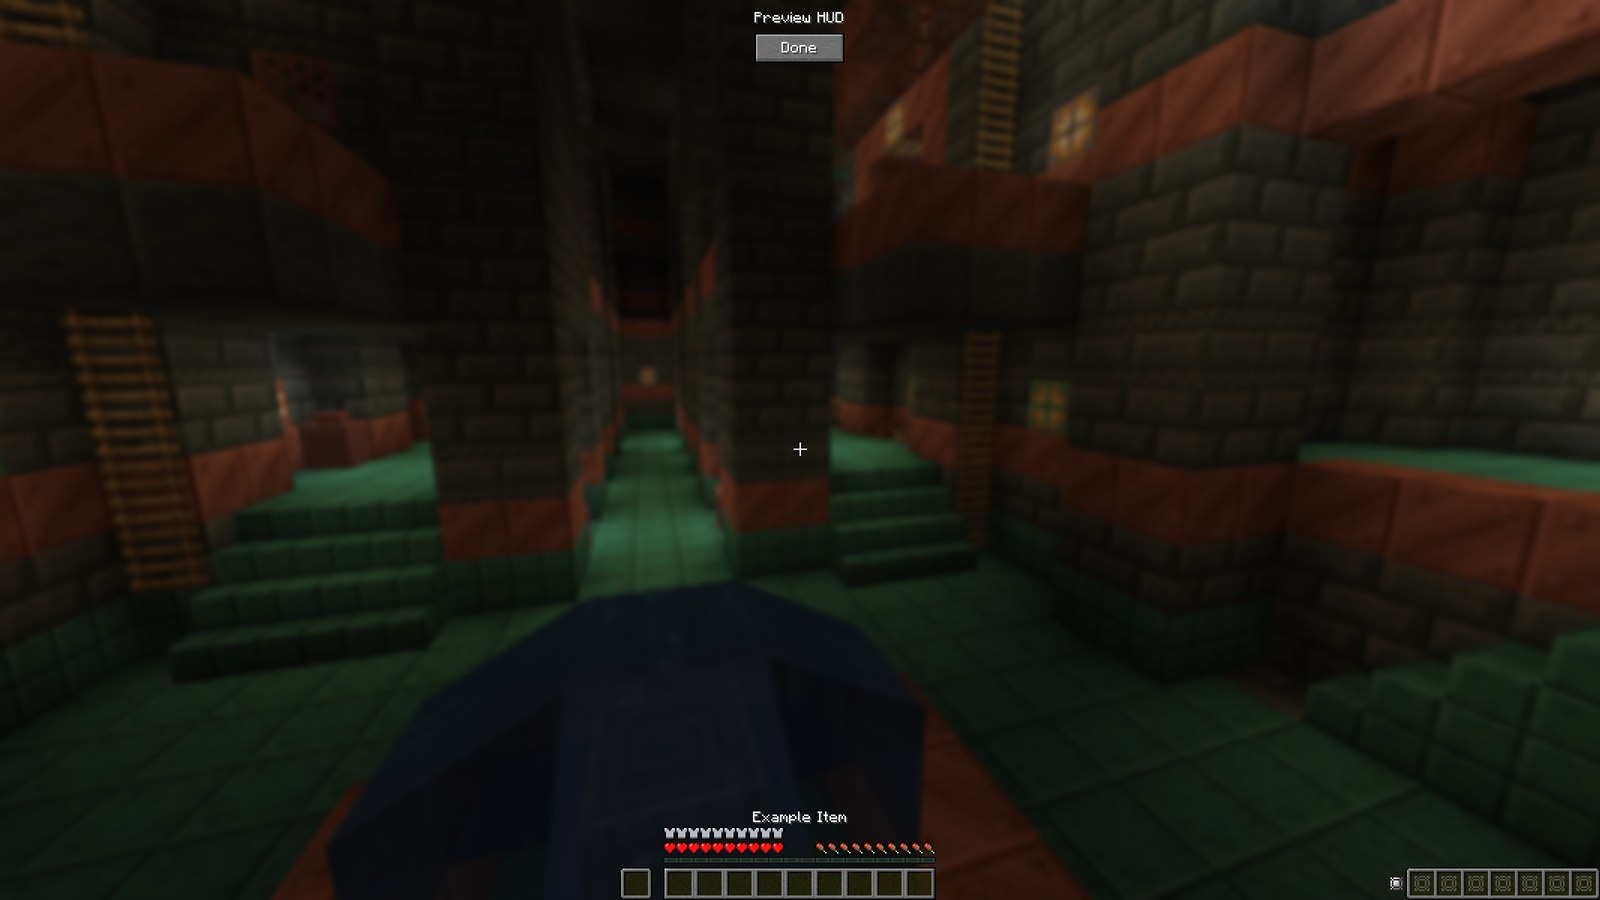
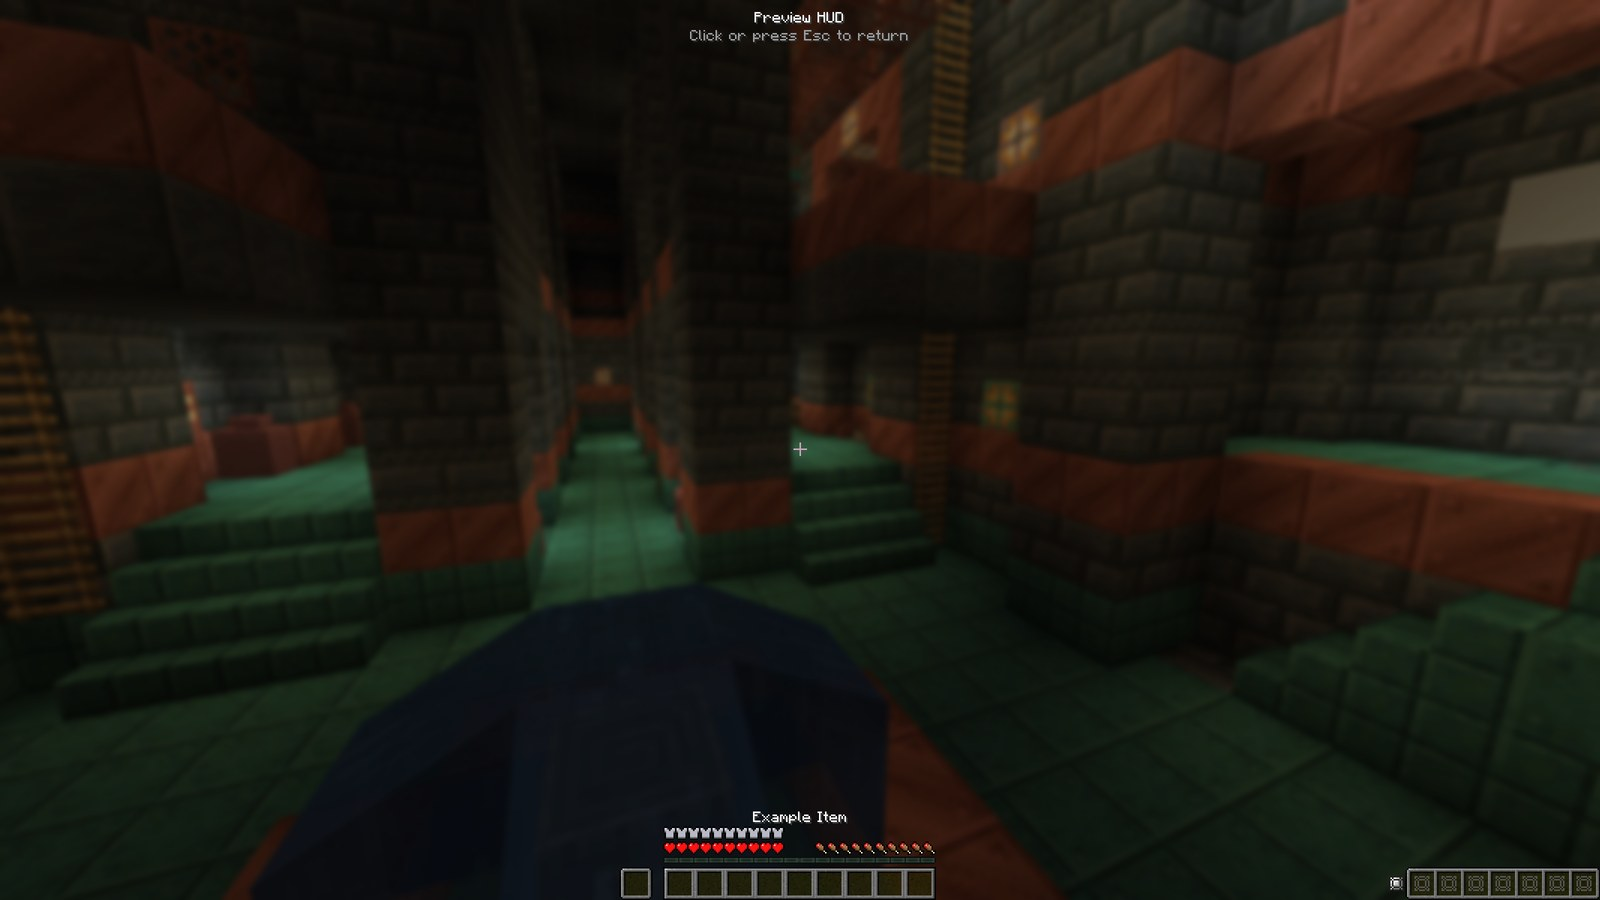
Preview HUD: no lone Done button; closes with a click anywhere or Escape
The preview screen held nothing but one Done button, which looked like a leftover wherever it sat. It now
has no widgets: a click anywhere or Escape returns to the config, and a title with that hint is drawn at
the top (in the middle when the HUD element is at the top centre). The test scene logs every screen it
shows with its widgets; 84/84 on NeoForge 21.1.262 (English and Russian), 21.1.197 and with the
compatibility mods.

diff --git a/src/main/java/com/oblivioussp/spartanhudbaubles/port/DevScene.java b/src/main/java/com/oblivioussp/spartanhudbaubles/port/DevScene.java
@@ -266,7 +266,7 @@ public final class DevScene
 			if(mc.screen instanceof GuiPreviewHUD preview)
 			{
 				check("preview: 7 dummy slots, bottom right", preview.getHud().getWidth() == 130 && preview.getHud().getLastX() == mc.getWindow().getGuiScaledWidth() - 130, preview.getHud().getLastX());
-				check("preview: Done button at the top, under the title", preview.getDoneButton().getY() == 22, preview.getDoneButton().getY());
+				check("preview: no lone button, title and hint at the top", preview.children().isEmpty() && preview.getTextY() == 8, preview.children().size() + ", text at " + preview.getTextY());
 			}
 			mc.screen.keyPressed(GLFW.GLFW_KEY_ESCAPE, 0, 0);
 		});
@@ -282,12 +282,16 @@ public final class DevScene
 		at(t += 3, mc -> Config.ALIGNMENT.set(Alignment.TOP_CENTER));
 		at(t += 3, mc -> {
 			if(mc.screen instanceof GuiPreviewHUD preview)
-				check("preview: Done button moves out of a top centre HUD", preview.getDoneButton().getY() == preview.height / 2 - 50, preview.getDoneButton().getY());
+				check("preview: title and hint move out of a top centre HUD", preview.getTextY() == preview.height / 2 - 50, preview.getTextY());
 			shot(mc, "preview_top_center");
 			Config.ALIGNMENT.set(Alignment.BOTTOM_RIGHT);
 		});
-		at(t += 3, mc -> mc.screen.keyPressed(GLFW.GLFW_KEY_ESCAPE, 0, 0));
+		at(t += 3, mc -> {
+			// A click anywhere closes the preview
+			mc.screen.mouseClicked(100, 100, 0);
+		});
 		at(t += 5, mc -> {
+			check("a click anywhere closes the preview", mc.screen instanceof GuiConfigSHB, mc.screen);
 			mc.screen.onClose();
 			watchScreens = 12;
 		});
@@ -451,6 +455,25 @@ public final class DevScene
 			check("menu step " + menuTick + " ran", false, e);
 			Log.error("[scene] menu step failed", e);
 		}
+	}
+
+	private static String lastScreen = "";
+	private static int screenShots;
+
+	/** Logs and saves every new look of a screen (its class and widgets), to see every screen the player sees */
+	@SubscribeEvent
+	public static void onScreenRendered(net.neoforged.neoforge.client.event.ScreenEvent.Render.Post event)
+	{
+		if(!ENABLED)
+			return;
+		List<AbstractWidget> found = new ArrayList<>();
+		collectWidgets(event.getScreen().children(), found);
+		String signature = event.getScreen().getClass().getSimpleName() + " " + found.stream().filter(w -> w.visible).map(w -> w.getMessage().getString() + "@" + w.getX() + "," + w.getY()).toList();
+		if(signature.equals(lastScreen))
+			return;
+		lastScreen = signature;
+		Log.info("[scene] SCREEN " + screenShots + " " + signature);
+		shot(Minecraft.getInstance(), "screen_" + screenShots++);
 	}
 
 	@SubscribeEvent
@@ -779,7 +802,7 @@ public final class DevScene
 	private static void checkTranslations()
 	{
 		List<String> keys = new ArrayList<>();
-		for(String key : List.of("preview_hud", "hover_text_example", "disable_hud", "skin_type", "alignment", "offset_x", "offset_y", "rotate_vertical",
+		for(String key : List.of("preview_hud", "preview_hud.hint", "hover_text_example", "disable_hud", "skin_type", "alignment", "offset_x", "offset_y", "rotate_vertical",
 				"show_baubles_icon", "show_empty_slots", "max_slots_per_line", "tooltip_background_colour", "tooltip_frame_top_colour",
 				"tooltip_frame_bottom_colour", "minimal_top_colour", "minimal_bottom_colour", "red", "green", "blue", "alpha", "title"))
 			keys.add(ModSpartanHUDBaubles.ID + ".configuration." + key);

diff --git a/src/main/java/com/oblivioussp/spartanhudbaubles/client/gui/GuiPreviewHUD.java b/src/main/java/com/oblivioussp/spartanhudbaubles/client/gui/GuiPreviewHUD.java
@@ -6,9 +6,7 @@ import com.mojang.blaze3d.systems.RenderSystem;
 import com.oblivioussp.spartanhudbaubles.ModSpartanHUDBaubles;
 
 import net.minecraft.client.gui.GuiGraphics;
-import net.minecraft.client.gui.components.Button;
 import net.minecraft.client.gui.screens.Screen;
-import net.minecraft.network.chat.CommonComponents;
 import net.minecraft.network.chat.Component;
 import net.minecraft.resources.ResourceLocation;
 import net.minecraft.world.entity.HumanoidArm;
@@ -33,7 +31,9 @@ public class GuiPreviewHUD extends Screen
 
 	private final Screen parentScreen;
 	private HudElementBaubles hud;
-	private Button doneButton;
+	private final Component hint = Component.translatable(ModSpartanHUDBaubles.ID + ".configuration.preview_hud.hint");
+	// Where the title and the hint are drawn (top, or the middle when the HUD element is at the top centre)
+	private int textY = 8;
 
 	public GuiPreviewHUD(Screen parent)
 	{
@@ -42,14 +42,15 @@ public class GuiPreviewHUD extends Screen
 		hud = new HudElementBaubles(true);
 	}
 
+	/**
+	 * Port: the original had a lone Done button above the crosshair; a page with nothing but one button looked like a
+	 * leftover, so the preview now closes with a click anywhere (or Escape) and says so at the top
+	 */
 	@Override
-	protected void init()
+	public boolean mouseClicked(double mouseX, double mouseY, int button)
 	{
-		// Port: at the top under the title (the original's button floated above the crosshair, which looks like a
-		// leftover in 1.21); back at the original spot when the HUD element itself is at the top centre
-		Component doneTitle = CommonComponents.GUI_DONE;
-		int doneWidth = Math.max(font.width(doneTitle) + 20, 60);
-		doneButton = addRenderableWidget(Button.builder(doneTitle, button -> onClose()).bounds(width / 2 - doneWidth / 2, 22, doneWidth, 20).build());
+		onClose();
+		return true;
 	}
 
 	@Override
@@ -69,9 +70,11 @@ public class GuiPreviewHUD extends Screen
 	@Override
 	public void render(GuiGraphics graphics, int mouseX, int mouseY, float partialTicks)
 	{
-		doneButton.setY(overlapsHud(width / 2 - doneButton.getWidth() / 2, 6, doneButton.getWidth(), 36) ? height / 2 - 50 : 22);
+		int textWidth = Math.max(font.width(title), font.width(hint)) + 8;
+		textY = overlapsHud(width / 2 - textWidth / 2, 4, textWidth, 26) ? height / 2 - 50 : 8;
 		super.render(graphics, mouseX, mouseY, partialTicks);
-		graphics.drawCenteredString(font, title, width / 2, doneButton.getY() - 14, 0xFFFFFF);
+		graphics.drawCenteredString(font, title, width / 2, textY, 0xFFFFFF);
+		graphics.drawCenteredString(font, hint, width / 2, textY + 12, 0xA0A0A0);
 
 		HumanoidArm offhandSide = minecraft.options.mainHand().get().getOpposite();
 
@@ -138,9 +141,9 @@ public class GuiPreviewHUD extends Screen
 		return hudX < x + w && x < hudX + hud.getWidth() && hudY < y + h && y < hudY + hud.getHeight();
 	}
 	
-	public Button getDoneButton()
+	public int getTextY()
 	{
-		return doneButton;
+		return textY;
 	}
 	
 	public HudElementBaubles getHud()

diff --git a/PORTLOG.md b/PORTLOG.md
@@ -26,7 +26,7 @@ three are in the jar (`LICENSE_spartanhudbaubles`, `licenses/spartanhudbaubles/`
   (`config.spartanhudbaubles:client.alignment` → `spartanhudbaubles.configuration.alignment`), and `tools/lang/*.json`
   on top (the port's new strings and the other five languages). Never edit `src/main/resources/assets` by hand.
 - **Tests** (long, run in the background):
-  - `tools/scenetest.sh` — client scene `port/DevScene` (83 checks, screenshots; `-Pscene_lang=ru_ru`, `-Pwith_compat`, `-Pneo_version=21.1.197 -Pno_jei`);
+  - `tools/scenetest.sh` — client scene `port/DevScene` (84 checks, screenshots; `-Pscene_lang=ru_ru`, `-Pwith_compat`, `-Pneo_version=21.1.197 -Pno_jei`);
   - `tools/scenetest.sh -Pscene=stress` — `port/StressScene` (broken config file, 74 Curios, frame rate, churn, every
     GUI scale, small window, extreme values, rejoining);
   - `tools/nettest.sh` — `port/NetScene`: a dev client joins a dev dedicated server, Curios are equipped with `/curios`;
@@ -53,8 +53,9 @@ three are in the jar (`LICENSE_spartanhudbaubles`, `licenses/spartanhudbaubles/`
 - **Rendering**: `RenderGameOverlayEvent.Post(EXPERIENCE)` → a GUI layer `spartanhudbaubles:baubles` above
   `experience_level`. Hidden with F1, for spectators, with `disable_hud` and behind the Preview HUD screen.
 - **Preview HUD**: the mock vanilla HUD (hotbar, offhand slot, crosshair, experience bar, armor, hearts, food, the
-  item name) is drawn from the 1.21 HUD sprites. Its **Done** button floated above the crosshair; it is now at the top
-  under a "Preview HUD" title, and moves back to the old spot only when the HUD element itself is at the top centre.
+  item name) is drawn from the 1.21 HUD sprites. The original's only widget there was a **Done** button above the
+  crosshair, which looked like a leftover on an otherwise empty page; the preview now closes with a click anywhere or
+  Escape, and a title with that hint is drawn at the top (in the middle when the HUD element is at the top centre).
 - **API**: `RenderBaubleOnHUDEvent.Pre` / `Post` are NeoForge events on `NeoForge.EVENT_BUS`; `ScaledResolution`,
   `GuiIngame` and `FontRenderer` became `GuiGraphics` (its `guiWidth()` / `guiHeight()`) and `Font`; the Curios slot
   type and index are new.
@@ -87,9 +88,9 @@ on 1.21 any mod that adds Curios slots or items is supported.
 
 | Run | Result |
 | --- | --- |
-| `tools/scenetest.sh` (NeoForge 21.1.262, Curios 9.5.1, JEI) | 83/83 checks, no errors |
-| `tools/scenetest.sh -Pneo_version=21.1.197 -Pno_jei` (the oldest NeoForge of the range, on the client; JEI 19.64 needs 21.1.238+) | 83/83 |
-| `tools/scenetest.sh -Pwith_compat` (+ Sodium 0.6.13, Iris 1.8.12, Lithium, FerriteCore, ModernFix, Jade, EMI) | 83/83; the log errors are EMI + JEI duplicate recipe ids and Sodium mixins for absent mods |
+| `tools/scenetest.sh` (NeoForge 21.1.262, Curios 9.5.1, JEI) | 84/84 checks, no errors (also in Russian) |
+| `tools/scenetest.sh -Pneo_version=21.1.197 -Pno_jei` (the oldest NeoForge of the range, on the client; JEI 19.64 needs 21.1.238+) | 84/84 |
+| `tools/scenetest.sh -Pwith_compat` (+ Sodium 0.6.13, Iris 1.8.12, Lithium, FerriteCore, ModernFix, Jade, EMI) | 84/84; the log errors are EMI + JEI duplicate recipe ids and Sodium mixins for absent mods |
 | `tools/scenetest.sh -Pscene=stress` | 14/14; 74 Curios on the HUD: 84–96 % of the frame rate without the element (two runs) |
 | `tools/nettest.sh` (dev dedicated server) | 6/6, no errors on either side |
 | Release jar, real NeoForge 21.1.197 and 21.1.259 servers, alone and with Curios 9.5.1 | starts ("Done"), 0 errors |

diff --git a/README.md b/README.md
@@ -81,7 +81,7 @@ Settings: **Mods → Spartan HUD: Baubles → Config**, or `config/spartanhudbau
 
 Everything of 1.0.0 is in the port; Baubles became Curios. The Curios are shown in the order of the Curios inventory;
 slot types that Curios hides, disabled slots and cosmetic slots are left out. The Curios inventory button replaces the
-Baubles icon. The Preview HUD's **Done** button sits at the top under a title instead of floating over the crosshair.
+Baubles icon. The Preview HUD has no lone **Done** button floating over the crosshair any more: it closes with a click anywhere or Escape, as the hint at its top says.
 
 | Original issue | Fix |
 | --- | --- |
@@ -130,7 +130,7 @@ compatibility layer; not tested).
 
 ## Testing
 
-- **Client scene** (`tools/scenetest.sh`): 83 checks — what the element collects and where it is for 1, 2, 7 and 12
+- **Client scene** (`tools/scenetest.sh`): 84 checks — what the element collects and where it is for 1, 2, 7 and 12
   Curios, wrapped rows, empty slots, every skin, all 9 alignments horizontal and vertical, offsets, F1, spectator, live
   durability, a Curio breaking in its slot, the config GUI and the preview through real clicks, the saved file, the main
   menu preview, translations. That the element is really drawn is checked by comparing the frame with one drawn
@@ -205,8 +205,8 @@ from its official pages.
 ## Что изменилось при порте
 
 Всё из 1.0.0 перенесено; Baubles заменён на Curios. Предметы идут в порядке инвентаря Curios; скрытые Curios типы
-ячеек, отключённые и косметические ячейки не показываются. Вместо значка Baubles — кнопка инвентаря Curios. Кнопка
-**Done** в предпросмотре теперь вверху под заголовком, а не висит над прицелом.
+ячеек, отключённые и косметические ячейки не показываются. Вместо значка Baubles — кнопка инвентаря Curios. Вместо одинокой кнопки
+**Done** над прицелом предпросмотр закрывается щелчком в любом месте или Esc, о чём говорит подсказка вверху.
 
 | Issue оригинала | Исправление |
 | --- | --- |
@@ -257,7 +257,7 @@ from its official pages.
 
 ## Тестирование
 
-- **Клиентская сцена** (`tools/scenetest.sh`): 83 проверки — что элемент собирает и где стоит при 1, 2, 7 и 12
+- **Клиентская сцена** (`tools/scenetest.sh`): 84 проверки — что элемент собирает и где стоит при 1, 2, 7 и 12
   предметах, перенос рядов, пустые ячейки, все оформления, все 9 положений по горизонтали и вертикали, сдвиги, F1,
   наблюдатель, прочность на лету, поломка предмета в ячейке, окно настроек и предпросмотр настоящими кликами, сохранение
   файла, предпросмотр из главного меню, переводы. Что элемент действительно нарисован, проверяется сравнением кадра с
